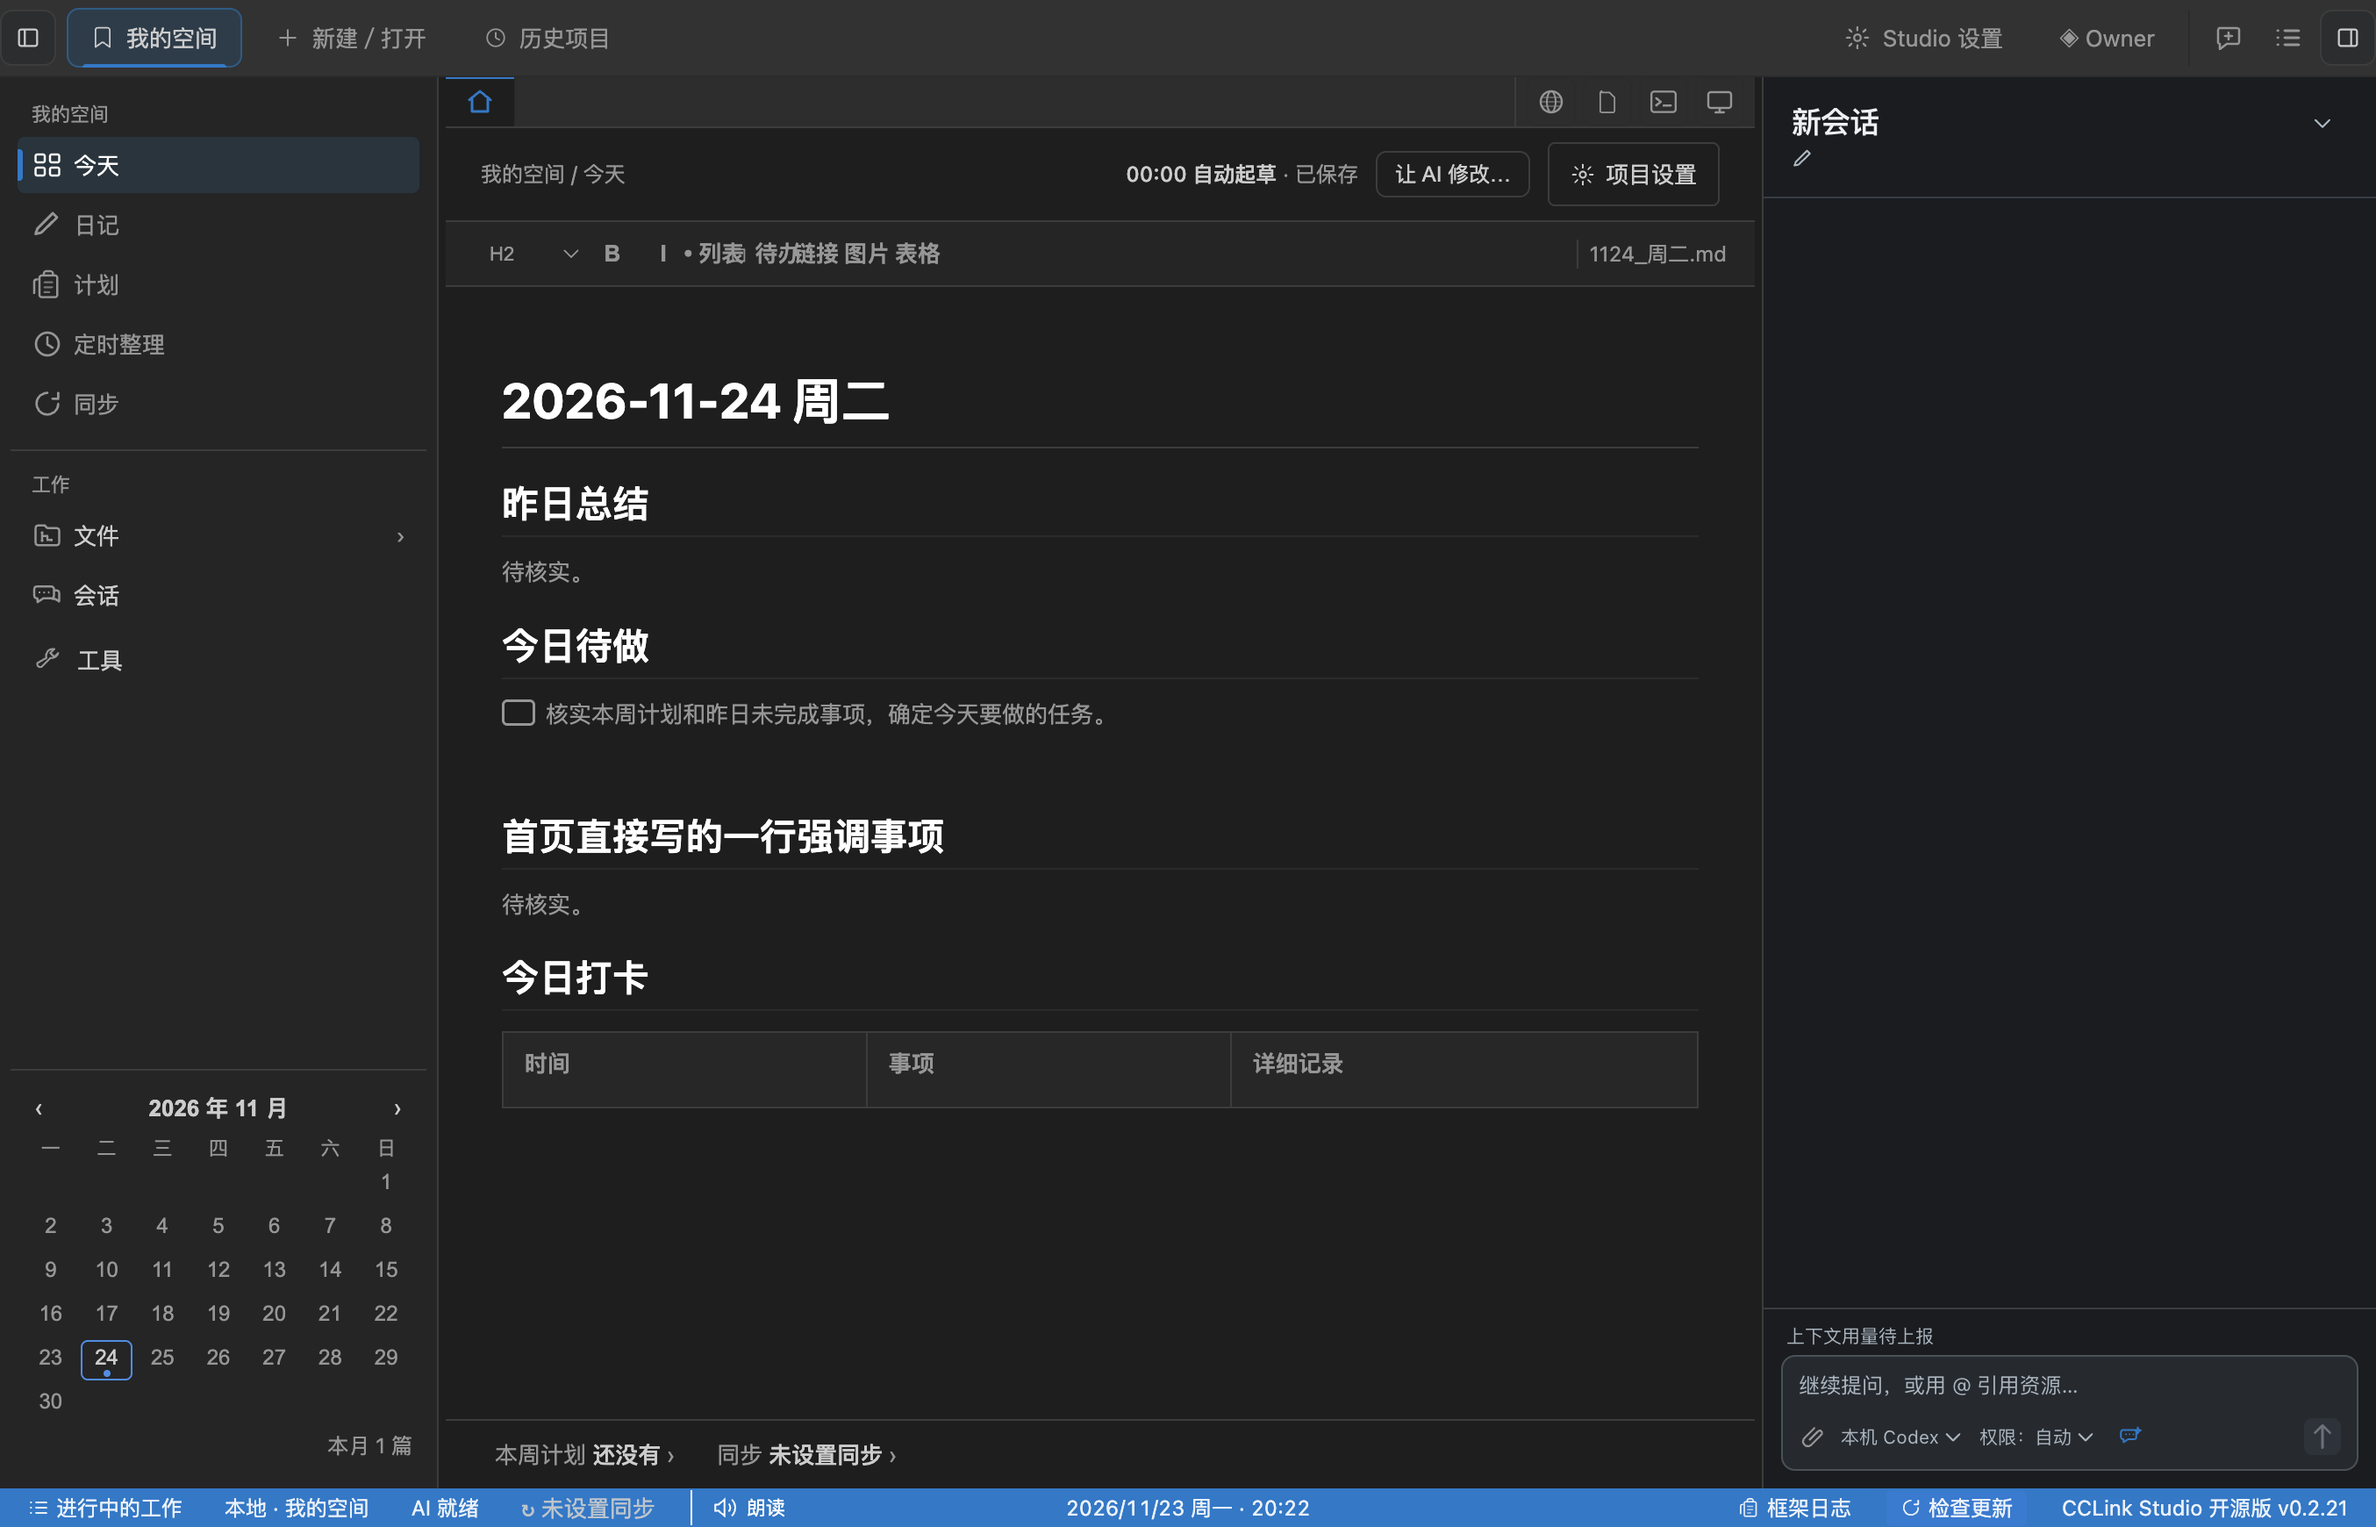
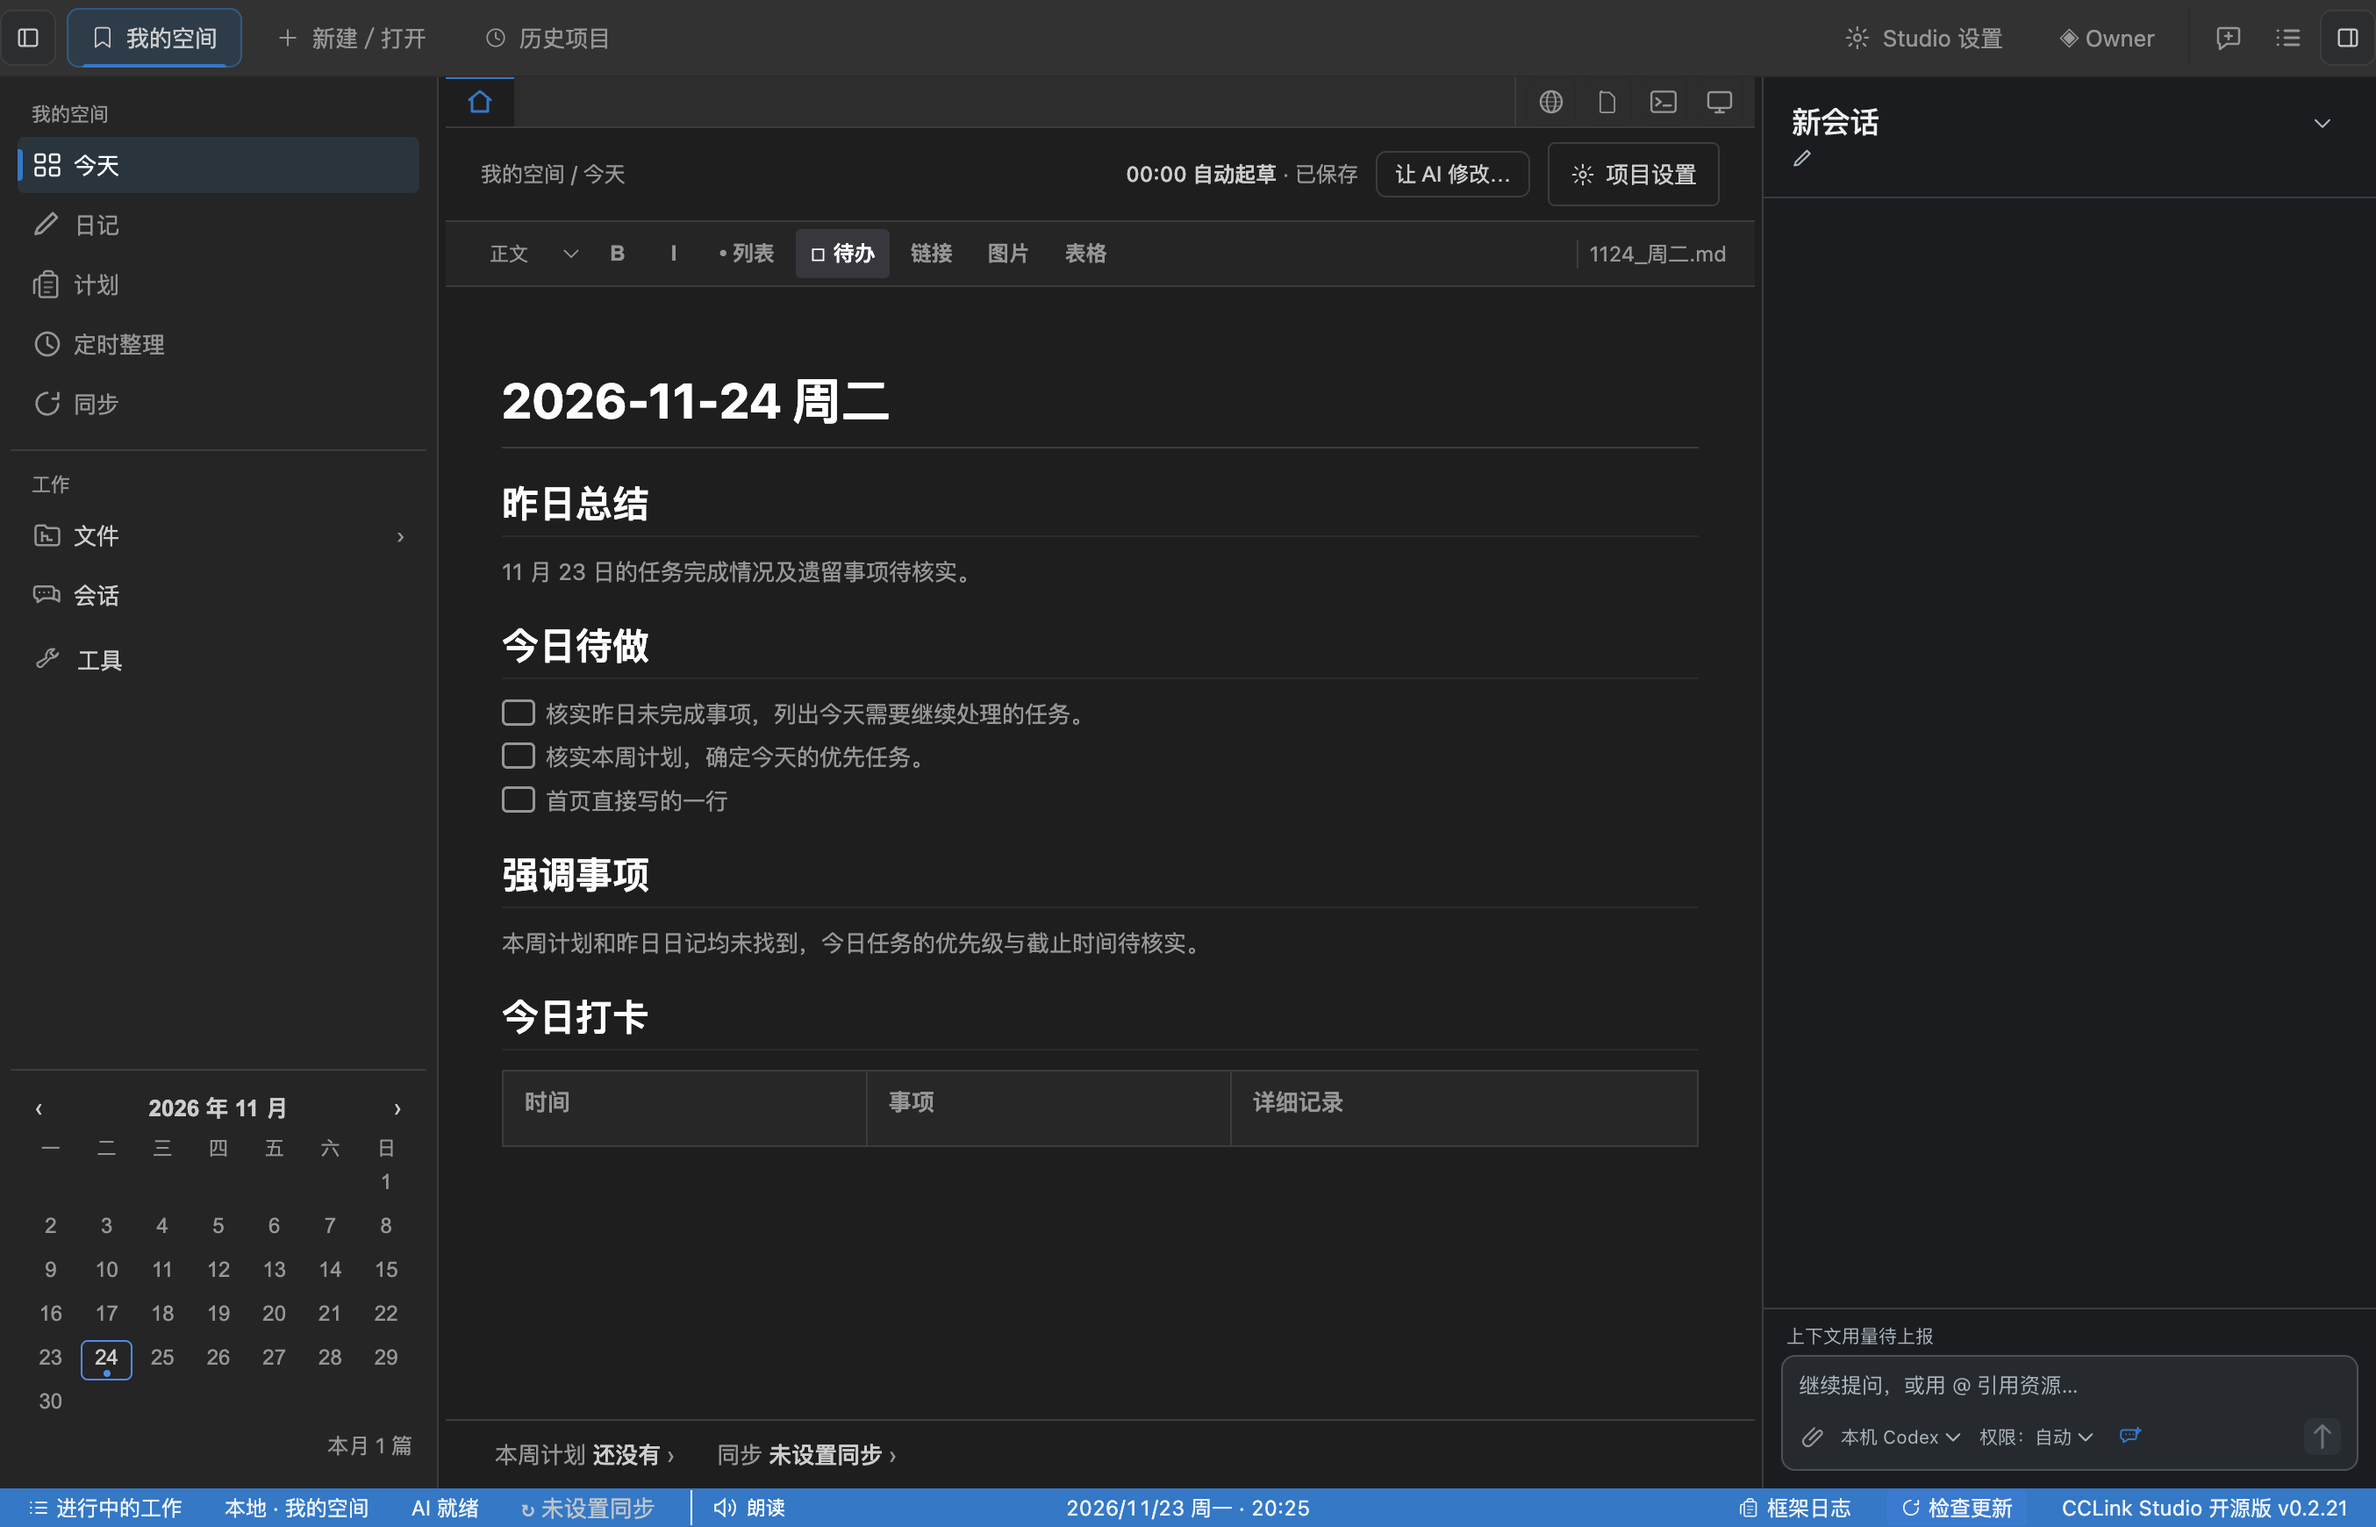
Give the compact today toolbar's text buttons room so labels do not run together

diff --git a/src/renderer/src/features/workspace-open/fixed-spaces.css b/src/renderer/src/features/workspace-open/fixed-spaces.css
@@ -963,3 +963,13 @@
   padding: 4px 10px;
   font-size: 12px;
 }
+.editor-toolbar.compact .toolbar-group {
+  gap: 4px;
+}
+.editor-toolbar.compact .toolbar-group button {
+  width: auto;
+  min-width: 28px;
+  padding: 0 8px;
+  white-space: nowrap;
+  font-size: 12px;
+}
